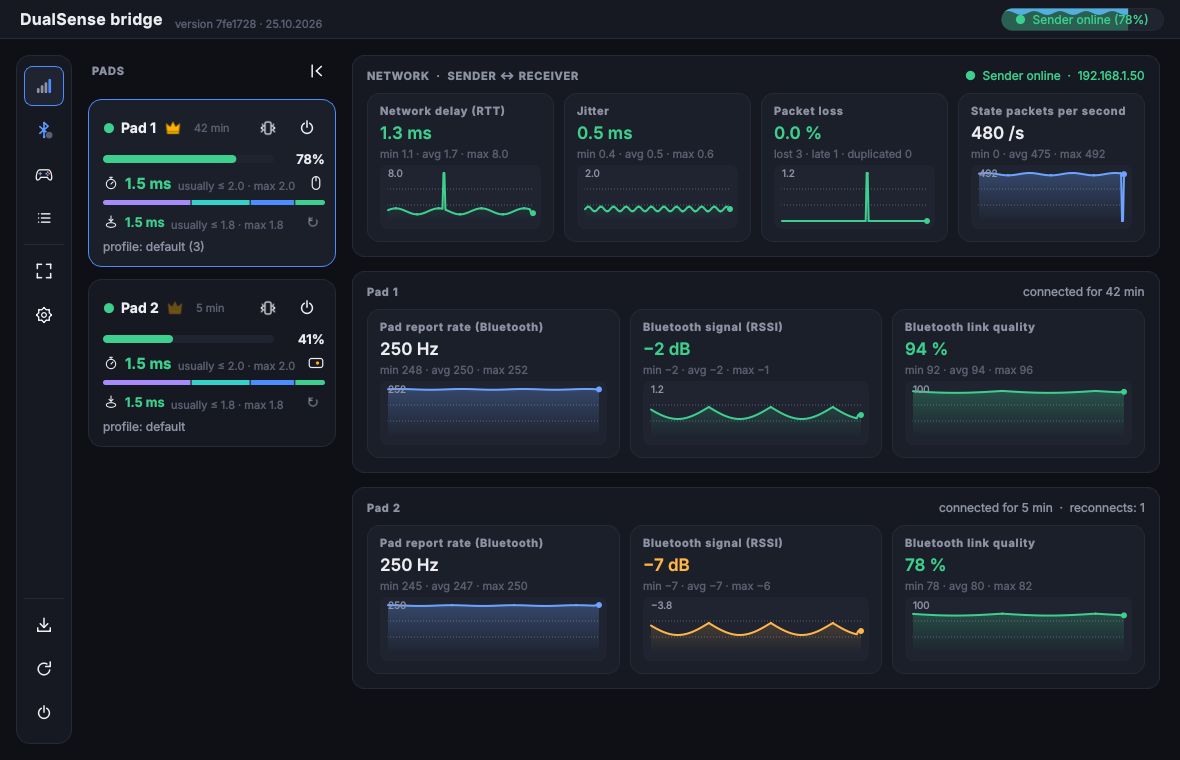
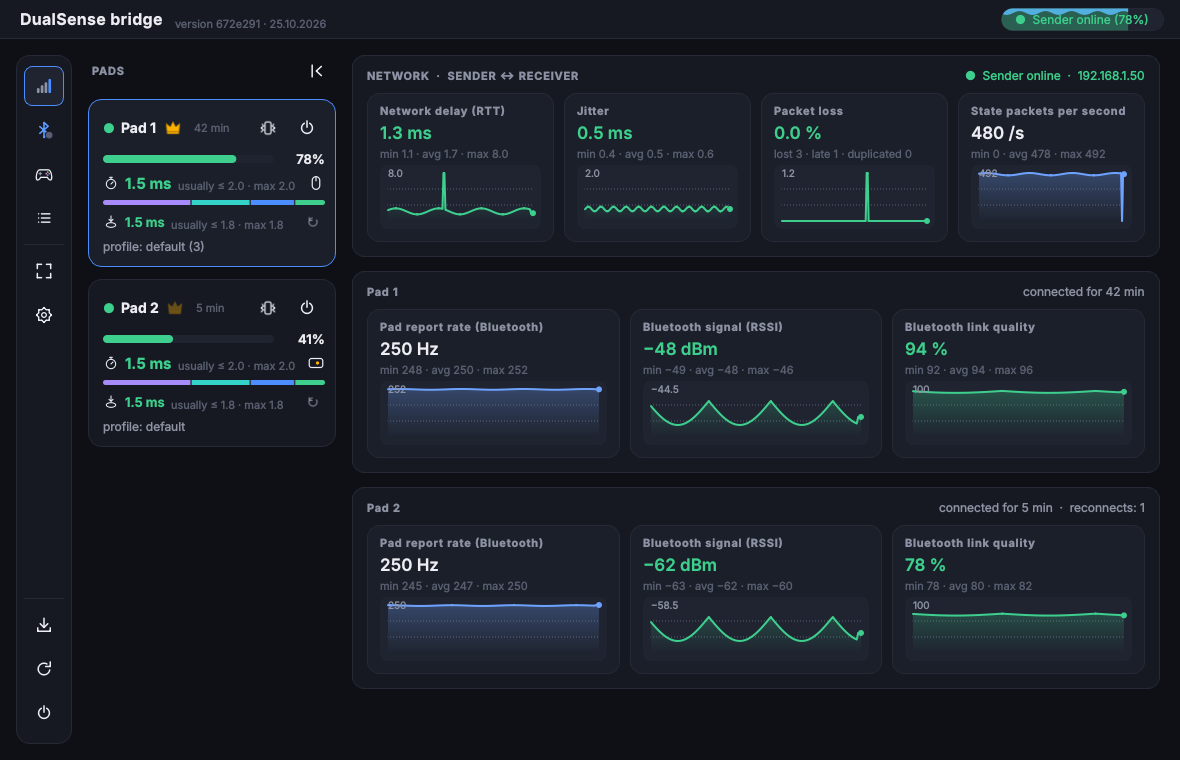
Receiver: read BT RSSI as dBm, show missing link quality as a dash
Most controllers return dBm for Read RSSI, not the spec's relative value,
so a strong signal showed as red. Thresholds are now -65 / -80 dBm.
A link quality of 0 means the controller does not compute it, so it is
treated as no data. Tooltips, docs and screenshots updated.

diff --git a/receiver/proto.py b/receiver/proto.py
@@ -86,11 +86,12 @@ to the receiver from which scfg arrived; the receiver sends btcmd only after bts
                                round, number, how many, flags BTC_*, N of hciN, device name (UTF-8); a round goes along with the
                                device list, only from a sender with a controller choice (the mode in btstate); an older receiver
                                rejects the unknown length
-  btlink  (type 12) "6sbBBB"    sender -> PC (idx 255): the radio link of one connected pad (the Diagnostics tab) - MAC, RSSI [dB],
+  btlink  (type 12) "6sbBBB"    sender -> PC (idx 255): the radio link of one connected pad (the Diagnostics tab) - MAC, RSSI [dBm],
                                link quality 0-255, flags BTL_* (which of the two values were really read), N of hciN. One packet per
                                connected pad, with every btstate while the window is interested (BT_LIST). RSSI is the controller's
-                               Read RSSI: for Bluetooth Classic it is relative to the Golden Receive Power Range (0 = inside, negative =
-                               below), not dBm. An older receiver rejects the unknown length
+                               Read RSSI, as the controller reports it (most give dBm; the specification says dB relative to the Golden
+                               Receive Power Range). Link quality 0 = the controller does not fill it in. An older receiver rejects the
+                               unknown length
 
 Format v3 (only with an HMAC key) - protection against replaying a recorded packet (replay):
   a header with version 3 instead of 2, the body as above, then the freshness token "!I" and 8 B of HMAC-SHA256 (computed over the whole
@@ -294,7 +295,7 @@ BODY: Final[dict[int, struct.Struct]] = {
     T_BTSTATE: struct.Struct("!BBBBBHBB6s"),    # BTS_*, BTF_*, scan [s], connected, in the list, round, op, BTR_*, MAC
     T_BTDEV: struct.Struct("!HBB6sbB32s"),      # round, number, how many, MAC, RSSI, BTD_*, name
     T_BTCTRL: struct.Struct("!HBBBB40s"),       # round, number, how many, BTC_*, N of hciN, device name
-    T_BTLINK: struct.Struct("!6sbBBB"),         # MAC, RSSI [dB], link quality 0-255, BTL_*, N of hciN
+    T_BTLINK: struct.Struct("!6sbBBB"),         # MAC, RSSI [dBm], link quality 0-255, BTL_*, N of hciN
 }
 STATE_FIELDS: Final = 17                        # the state fields in state / state2 (without the latency measurement)
 BODY_LEN: Final = {ptype: body.size for ptype, body in BODY.items()}

diff --git a/sender/proto.py b/sender/proto.py
@@ -86,11 +86,12 @@ to the receiver from which scfg arrived; the receiver sends btcmd only after bts
                                round, number, how many, flags BTC_*, N of hciN, device name (UTF-8); a round goes along with the
                                device list, only from a sender with a controller choice (the mode in btstate); an older receiver
                                rejects the unknown length
-  btlink  (type 12) "6sbBBB"    sender -> PC (idx 255): the radio link of one connected pad (the Diagnostics tab) - MAC, RSSI [dB],
+  btlink  (type 12) "6sbBBB"    sender -> PC (idx 255): the radio link of one connected pad (the Diagnostics tab) - MAC, RSSI [dBm],
                                link quality 0-255, flags BTL_* (which of the two values were really read), N of hciN. One packet per
                                connected pad, with every btstate while the window is interested (BT_LIST). RSSI is the controller's
-                               Read RSSI: for Bluetooth Classic it is relative to the Golden Receive Power Range (0 = inside, negative =
-                               below), not dBm. An older receiver rejects the unknown length
+                               Read RSSI, as the controller reports it (most give dBm; the specification says dB relative to the Golden
+                               Receive Power Range). Link quality 0 = the controller does not fill it in. An older receiver rejects the
+                               unknown length
 
 Format v3 (only with an HMAC key) - protection against replaying a recorded packet (replay):
   a header with version 3 instead of 2, the body as above, then the freshness token "!I" and 8 B of HMAC-SHA256 (computed over the whole
@@ -294,7 +295,7 @@ BODY: Final[dict[int, struct.Struct]] = {
     T_BTSTATE: struct.Struct("!BBBBBHBB6s"),    # BTS_*, BTF_*, scan [s], connected, in the list, round, op, BTR_*, MAC
     T_BTDEV: struct.Struct("!HBB6sbB32s"),      # round, number, how many, MAC, RSSI, BTD_*, name
     T_BTCTRL: struct.Struct("!HBBBB40s"),       # round, number, how many, BTC_*, N of hciN, device name
-    T_BTLINK: struct.Struct("!6sbBBB"),         # MAC, RSSI [dB], link quality 0-255, BTL_*, N of hciN
+    T_BTLINK: struct.Struct("!6sbBBB"),         # MAC, RSSI [dBm], link quality 0-255, BTL_*, N of hciN
 }
 STATE_FIELDS: Final = 17                        # the state fields in state / state2 (without the latency measurement)
 BODY_LEN: Final = {ptype: body.size for ptype, body in BODY.items()}

diff --git a/receiver/rx_i18n.py b/receiver/rx_i18n.py
@@ -1084,13 +1084,14 @@ EN: Final[dict[str, str]] = {
     "Ile raportów na sekundę nadajnik dostaje od pada przez Bluetooth. Spadki oznaczają, że radio gubi albo opóźnia pakiety.":
         "How many reports per second the sender gets from the pad over Bluetooth. Drops mean the radio loses or delays packets.",
     "Sygnał Bluetooth (RSSI)": "Bluetooth signal (RSSI)",
-    "Odczyt kontrolera Bluetooth nadajnika, względem zakresu optymalnego (nie dBm): 0 = w zakresie, wartości ujemne = tyle dB "
-    "poniżej. Brak danych: starszy nadajnik albo kontroler nie podaje odczytu.":
-        "A reading from the sender's Bluetooth controller, relative to the optimal range (not dBm): 0 = inside the range, "
-        "negative = that many dB below it. No data: an older sender, or the controller gives no reading.",
+    "Moc sygnału pada odczytana przez kontroler Bluetooth nadajnika, w dBm: im bliżej zera, tym lepiej "
+    "(powyżej -65 dobrze, poniżej -80 słabo). Brak danych: starszy nadajnik albo kontroler nie podaje odczytu.":
+        "The pad's signal power as read by the sender's Bluetooth controller, in dBm: the closer to zero the better "
+        "(above -65 is good, below -80 is poor). No data: an older sender, or the controller gives no reading.",
     "Jakość łącza Bluetooth": "Bluetooth link quality",
-    "Jakość łącza według kontrolera Bluetooth nadajnika (0-100 %). Nie każdy kontroler ją podaje.":
-        "Link quality as reported by the sender's Bluetooth controller (0-100 %). Not every controller provides it.",
+    "Jakość łącza według kontrolera Bluetooth nadajnika (0-100 %). Wiele kontrolerów jej nie liczy - wtedy widać kreskę.":
+        "Link quality as reported by the sender's Bluetooth controller (0-100 %). "
+        "Many controllers do not compute it - then a dash is shown.",
     "min {lo} · śr {avg} · max {hi}": "min {lo} · avg {avg} · max {hi}",
     "utracone {lost} · spóźnione {late} · zdublowane {dup}": "lost {lost} · late {late} · duplicated {dup}",
     "połączony od {t}": "connected for {t}",

diff --git a/receiver/rx_diag.py b/receiver/rx_diag.py
@@ -32,7 +32,7 @@ JITTER_GAIN: Final = 16                # RFC 3550: J += (|D| - J) / 16
 RTT_WARN_MS, RTT_BAD_MS = 8.0, 25.0
 JITTER_WARN_MS, JITTER_BAD_MS = 2.0, 8.0
 LOSS_WARN_PCT, LOSS_BAD_PCT = 0.5, 2.0
-RSSI_WARN_DB, RSSI_BAD_DB = -3, -10    # relative to the golden receive power range: 0 = inside it, negative = below
+RSSI_WARN_DBM, RSSI_BAD_DBM = -65, -80  # most controllers report dBm: stronger than -65 is good, weaker than -80 is poor
 QUALITY_WARN_PCT, QUALITY_BAD_PCT = 78, 50
 
 
@@ -63,7 +63,7 @@ class Series:
 
 @dataclass
 class Link:
-    """The last btlink reading of a pad: RSSI [dB, relative to the golden range] and quality (0-255); None = not read."""
+    """The last btlink reading of a pad: RSSI [dBm] and quality (1-255); None = not read (quality 0 = the controller has none)."""
     rssi: int | None
     quality: int | None
     hci: int
@@ -161,7 +161,7 @@ def on_btlink(data: bytes, now: float | None = None) -> None:
     i = slot_of(mac_text(mac))
     if i is None or i >= len(pads):
         return
-    pads[i].link = Link(rssi if flags & BTL_RSSI else None, quality if flags & BTL_LQ else None, hci, now)
+    pads[i].link = Link(rssi if flags & BTL_RSSI else None, quality if flags & BTL_LQ and quality else None, hci, now)   # 0 = not computed
 
 
 def link_of(i: int, now: float | None = None) -> Link | None:
@@ -219,9 +219,9 @@ def loss_level(pct: float | None) -> str:
     return _level(pct, LOSS_WARN_PCT, LOSS_BAD_PCT)
 
 
-def rssi_level(db: float | None) -> str:
-    """Colour class of the RSSI (relative to the golden range: 0 and above is fine)."""
-    return _level(db, RSSI_WARN_DB, RSSI_BAD_DB, higher_is_worse=False)
+def rssi_level(dbm: float | None) -> str:
+    """Colour class of the RSSI [dBm]."""
+    return _level(dbm, RSSI_WARN_DBM, RSSI_BAD_DBM, higher_is_worse=False)
 
 
 def quality_level(pct: float | None) -> str:

diff --git a/receiver/rx_qt_diag.py b/receiver/rx_qt_diag.py
@@ -245,12 +245,13 @@ class PadCard(QFrame):
         self.hz = Tile(_("Raport pada (Bluetooth)"), d.hz, "Hz", 50.0,
                        _("Ile raportów na sekundę nadajnik dostaje od pada przez Bluetooth. "
                          "Spadki oznaczają, że radio gubi albo opóźnia pakiety."), digits=0)
-        self.rssi = Tile(_("Sygnał Bluetooth (RSSI)"), d.rssi, "dB", 6.0,
-                         _("Odczyt kontrolera Bluetooth nadajnika, względem zakresu optymalnego (nie dBm): 0 = w zakresie, "
-                           "wartości ujemne = tyle dB poniżej. Brak danych: starszy nadajnik albo kontroler nie podaje odczytu."),
+        self.rssi = Tile(_("Sygnał Bluetooth (RSSI)"), d.rssi, "dBm", 6.0,
+                         _("Moc sygnału pada odczytana przez kontroler Bluetooth nadajnika, w dBm: im bliżej zera, tym lepiej "
+                           "(powyżej -65 dobrze, poniżej -80 słabo). Brak danych: starszy nadajnik albo kontroler nie podaje odczytu."),
                          zero_based=False, digits=0)
         self.quality = Tile(_("Jakość łącza Bluetooth"), d.quality, "%", 100.0,
-                            _("Jakość łącza według kontrolera Bluetooth nadajnika (0-100 %). Nie każdy kontroler ją podaje."),
+                            _("Jakość łącza według kontrolera Bluetooth nadajnika (0-100 %). "
+                              "Wiele kontrolerów jej nie liczy - wtedy widać kreskę."),
                             fixed=(0.0, 100.0), digits=0)
         lay.addLayout(_row([self.hz, self.rssi, self.quality]))
         self.tiles = (self.hz, self.rssi, self.quality)

diff --git a/sender/sender_btlink.py b/sender/sender_btlink.py
@@ -14,9 +14,11 @@ How a reading is made:
 Python's `socket` has no Bluetooth support on some builds (musl distributions), so the socket is created with plain numbers and
 bound through libc with a hand-packed sockaddr_hci - the same way for every build.
 
-For Bluetooth Classic the RSSI is not dBm: the controller reports it relative to the Golden Receive Power Range (0 = inside the
-range, negative = that many dB below it, positive = above). A controller may support neither command (the status is "unknown
-command"): the value is then missing, and the window shows a dash.
+What the numbers mean depends on the controller. The specification defines the Classic RSSI as dB relative to the Golden Receive
+Power Range (0 = inside the range), but most controllers (the Qualcomm one in phones, for example) simply return the power in dBm,
+and many return 0 for the link quality because they do not compute it. The receiver therefore reads the RSSI as dBm and treats
+a link quality of 0 as "no data". A controller may support neither command (the status is "unknown command"): the value is then
+missing, and the window shows a dash.
 """
 from __future__ import annotations
 
@@ -61,7 +63,7 @@ HCI_NAME = re.compile(r"hci(\d+)$")
 
 @dataclass(frozen=True, slots=True)
 class Link:
-    """One pad's reading: RSSI [dB, relative to the golden range] and link quality (0-255); None = the controller did not answer."""
+    """One pad's reading: RSSI [dBm on most controllers] and link quality (0-255, 0 = not provided); None = no answer."""
     rssi: int | None
     quality: int | None
     hci: int

diff --git a/tests/test_diag.py b/tests/test_diag.py
@@ -84,6 +84,9 @@ assert lk is not None and (lk.rssi, lk.quality, lk.hci) == (-4, 200, 1), "the MA
 rx_diag.on_btlink(btlink(MAC, 0, 120, BTL_LQ), now)
 lk = rx_diag.link_of(0, now)
 assert lk.rssi is None and lk.quality == 120, "no BTL_RSSI flag = no RSSI"
+rx_diag.on_btlink(btlink(MAC, -30, 0, BTL_RSSI | BTL_LQ), now)
+lk = rx_diag.link_of(0, now)
+assert lk.rssi == -30 and lk.quality is None, "link quality 0 = the controller does not compute it: no data, not 0 %"
 rx_diag.on_btlink(btlink("11:22:33:44:55:66", -1, 1, BTL_RSSI), now)
 assert rx_diag.link_of(1, now) is None, "an unknown MAC is ignored"
 assert rx_diag.link_of(0, now + rx_diag.LINK_STALE_S + 0.1) is None, "a stale reading is not shown"
@@ -111,7 +114,7 @@ L = rx_diag
 assert [L.rtt_level(x) for x in (None, 1, 10, 30)] == ["", "ok", "warn", "bad"]
 assert [L.jitter_level(x) for x in (None, 0.5, 3, 9)] == ["", "ok", "warn", "bad"]
 assert [L.loss_level(x) for x in (None, 0, 1, 5)] == ["", "ok", "warn", "bad"]
-assert [L.rssi_level(x) for x in (None, 0, -5, -12)] == ["", "ok", "warn", "bad"]
+assert [L.rssi_level(x) for x in (None, -30, -70, -85)] == ["", "ok", "warn", "bad"]
 assert [L.quality_level(x) for x in (None, 95, 60, 30)] == ["", "ok", "warn", "bad"]
 ok("level functions")
 

diff --git a/tools/screenshots.py b/tools/screenshots.py
@@ -152,12 +152,12 @@ for k in range(rx_diag.HISTORY):
     for i, p in enumerate(rx_diag.pads):
         p.hz.add(250 - 3 * i + 2 * math.sin(a + i))
         p.pps.add(240 - 4 * i + 3 * math.sin(a + i))
-        p.rssi.add(-1 - 5 * i - 1.5 * abs(math.sin(a / 2)))
+        p.rssi.add(-46 - 14 * i - 3 * abs(math.sin(a / 2)))
         p.quality.add(96 - 14 * i - 4 * abs(math.sin(a / 3)))
 rx_diag.net.lost, rx_diag.net.late, rx_diag.net.dup = 3, 1, 0
 for i, p in enumerate(rx_diag.pads):
     p.connects = 1 + i
-    p.link = rx_diag.Link(-2 - 5 * i, 240 - 40 * i, 0, time.monotonic() + 3600)
+    p.link = rx_diag.Link(-48 - 14 * i, 240 - 40 * i, 0, time.monotonic() + 3600)
 S.connected_at[0], S.connected_at[1] = time.monotonic() - 2535, time.monotonic() - 312
 tick()
 rx_diag.net.jitter_ms, rx_diag.net.loss_pct, rx_diag.net._pps = 0.5, 0.0, 480.0     # what the next samples will show

diff --git a/docs/FUNKCJE.pl.md b/docs/FUNKCJE.pl.md
@@ -76,8 +76,8 @@
     wykres z ostatniej minuty oraz min / śr / max; zielony / bursztynowy / czerwony oznacza stan. Czas połączenia widać
     też małym tekstem na karcie pada. RSSI i jakość łącza przychodzą w nowym pakiecie `btlink` (nadajnik pyta kontroler
     poleceniami HCI Read RSSI / Read Link Quality, wymaga roota); starszy nadajnik albo kontroler bez tych poleceń
-    pokazuje kreskę. W Bluetooth Classic RSSI jest względne do zakresu optymalnego kontrolera (0 = w zakresie, wartość
-    ujemna = tyle dB poniżej), a nie w dBm;
+    pokazuje kreskę. RSSI jest w dBm, tak jak podaje kontroler (powyżej -65 zielone, poniżej -80 czerwone); wiele
+    kontrolerów nie liczy jakości łącza (odpowiadają 0) i wtedy zamiast 0 % widać kreskę;
     **Restart** jest też w menu zasobnika;
   - **pełny ekran = tryb TV:** większy interfejs (czytelny z kanapy) i sterowanie oknem padem, gdy okno jest
     aktywne: D-pad - poruszanie się, ✕ - wybór, ○ - wstecz / wyjście z pełnego ekranu, L1 / R1 - poprzedni / następny

diff --git a/docs/FEATURES.md b/docs/FEATURES.md
@@ -80,8 +80,8 @@
     chart and min / avg / max; green / amber / red marks the value. The same connection time is shown in small text on
     the pad card. The RSSI and link quality come from a new `btlink` packet (the sender asks the controller with HCI Read
     RSSI / Read Link Quality, needs root); an older sender or a controller that does not support the commands shows a
-    dash. For Bluetooth Classic the RSSI is relative to the controller's optimal range (0 = inside, negative = dB below
-    it), not dBm;
+    dash. The RSSI is shown in dBm as the controller reports it (above -65 is green, below -80 red); many controllers do
+    not compute the link quality (they answer 0) and then a dash is shown instead of 0 %;
     **Restart** is also in the tray menu;
   - **full screen = TV mode:** a larger interface (readable from the couch) and controlling the window with the pad
     while the window is active: D-pad - navigation, ✕ - select, ○ - back / leave full screen, L1 / R1 - previous / next
